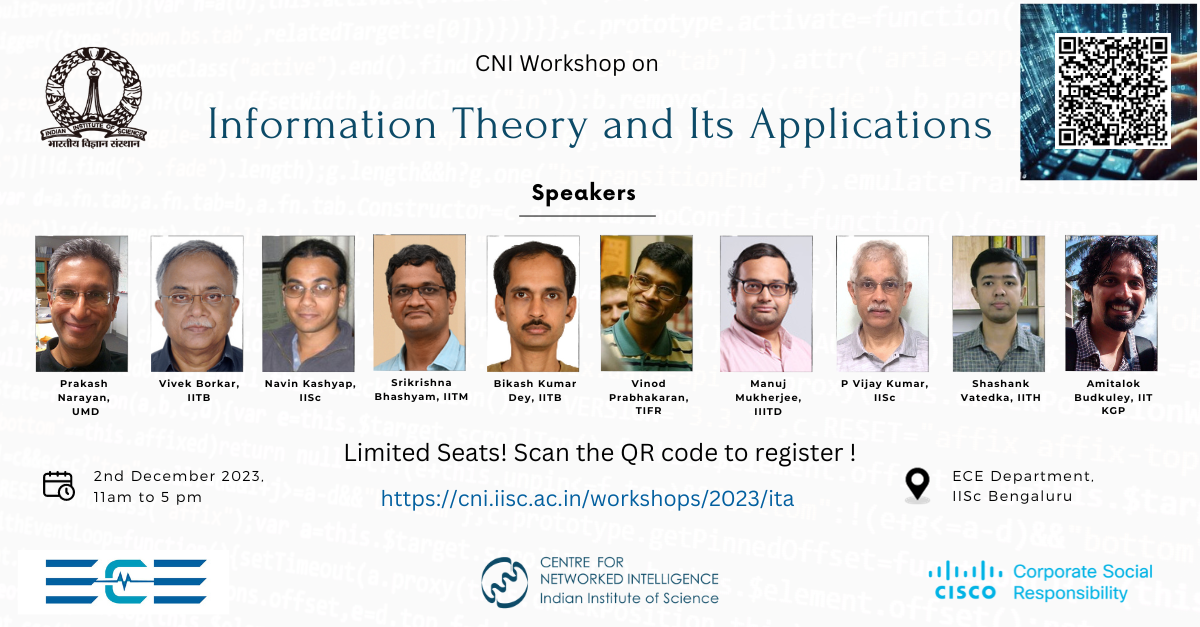
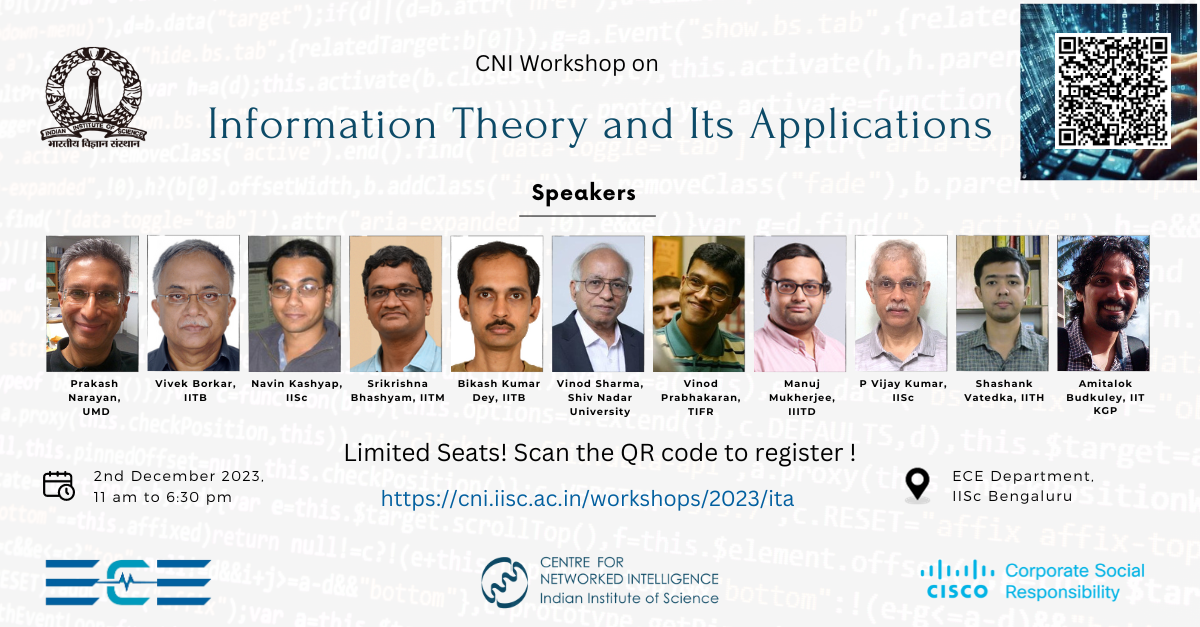
changes to ITA workshop page and assets replacement for the same

diff --git a/_workshops/2023/ita.md b/_workshops/2023/ita.md
@@ -10,41 +10,31 @@ category: ""
 <article>
     The workshop on "Information Theory and its Applications", supported by the Centre for Networked Intelligence (CNI) will be held on <b>2nd of December, 2023</b> in the ECE Department, IISc Bengaluru. 
  <br>
- Dedicated to the 70th birthday of Professor Prakash Narayan, talks by 10 speakers including the professor will be conducted from 11 am to 6 pm.
+ This event is dedicated to the 70th birthday of Professor Prakash Narayan.
 </article>
-    <br>
-    <br>
-<b>Speakers
-</b>
-<ul>  
-<li>Prakash Narayan, UMD</li>
-<li>Vivek Borkar, IITB</li>
-<li>P Vijay Kumar, IISc</li>
-<li>Navin Kashyap, IISc</li>
-<li>Srikrishna Bhashyam, IITM</li>
-<li>Bikash Kumar Dey, IITB</li>
-<li>Vinod Prabhakaran, TIFR</li>
-<li>Manuj Mukherjee, IIITD</li>
-<li>Shashank Vatedka, IITH</li>
-<li>Amitalok Budkuley, IIT KGP</li>
-</ul>
 <br>
+<br>
+<h2><a href="https://forms.office.com/r/j7BW3SPeEn">Click here to register!!!</a></h2>
+    <br>
     <img width = "100%" src= "/assets/img/workshops/ita2023.png"/>
 <br>
+    </center>
+
 <br>
 <div>
-<b>Schedule</b>
- <ul>
-<li>11:00am-12:30pm: 30 min tals</li>
-<li>12:30pm-01:30pm: Lunch</li> 
-<li>01:30pm-03:00pm: 30 min talks</li>
- <li>03:00pm-03:30pm: Coffee Break</li>
- <li>03:30pm-05:00pm: 30 min talks</li>
- </ul>
-</div>
-
+<b><h2>Schedule</h2></b>
 <br>
-<a href="https://forms.office.com/r/j7BW3SPeEn"><h2>Click here to register!!!</h2></a>
-
-
-</center>
+11:00am-11:30am: P Vijay Kumar<br>
+11:30am-12:00pm: Srikrishna Bhashyam<br>
+12:00pm-12:30pm: Vinod Prabhakaran<br>
+12:30pm-01:00pm: Bikash Kumar Dey<br>
+<b>01:00pm-02:00pm: Lunch</b><br>
+02:00pm-03:00pm: Keynote Lecture by Prakash Narayan<br>
+03:00pm-03:30pm: Vivek Borkar<br>
+03:30pm-04:00pm: Amitalok Budkuley<br>
+<b>04:00pm-04:30pm: Coffee Break</b><br>
+04:30pm-05:00pm: Vinod Sharma<br>
+05:00pm-05:30pm: Manuj Mukherjee<br>
+05:30pm-06:00pm: Shashank Vatedka<br>
+06:00pm-06:30pm: Navin Kashyap<br>
+</div>
